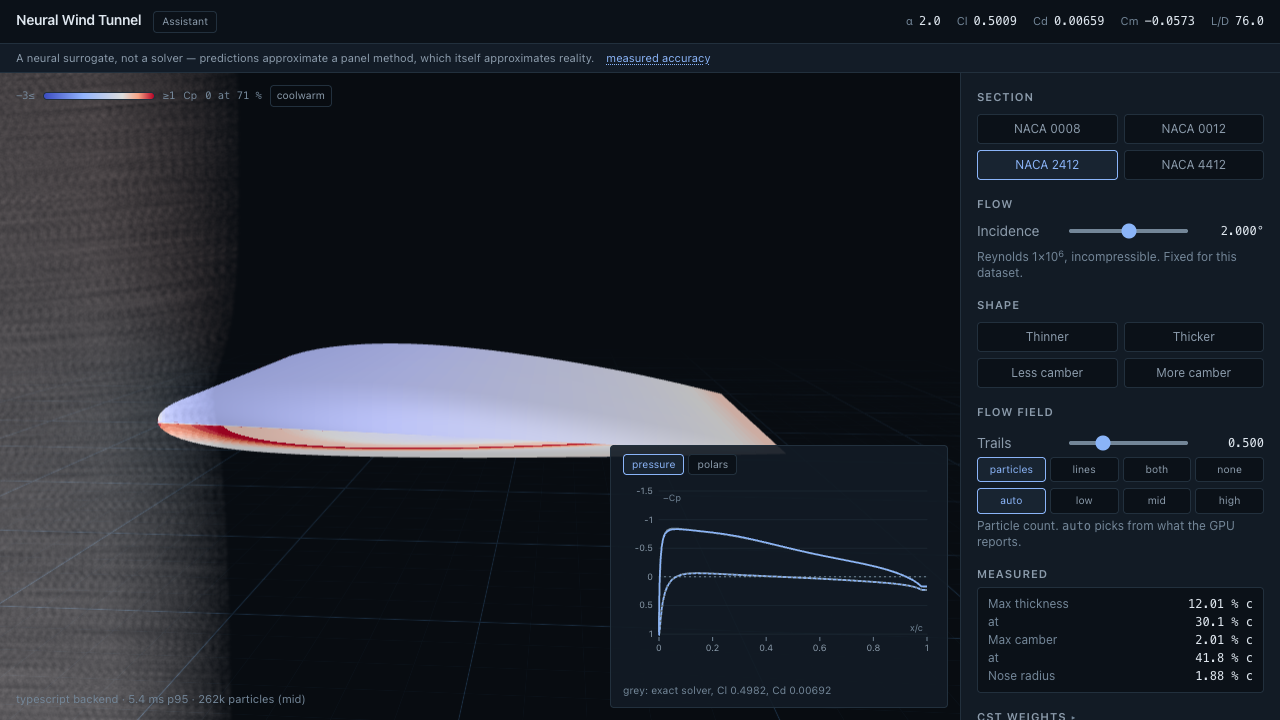
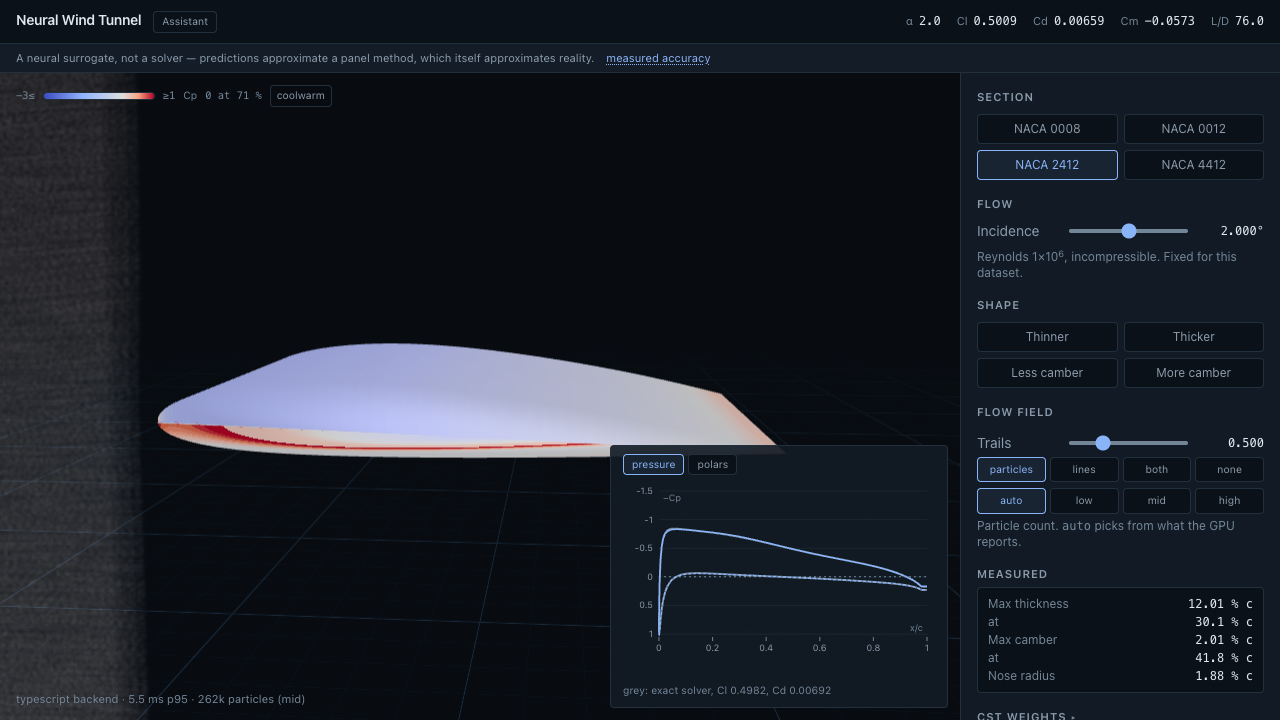
test: wait for the flow field to develop instead of for the clock

Changed region(s): [[0.0, 0.0917, 0.2188, 1.0]]

diff --git a/tests/e2e/scene.spec.ts b/tests/e2e/scene.spec.ts
@@ -150,50 +150,69 @@ test.describe('polars', () => {
  * dead field, a broken mask, particles that never advect, and an inlet that saturates.
  */
 test.describe('the flow field is visible across the domain', () => {
+  // Self-paced rather than clock-paced. A particle needs about five seconds of simulated time to
+  // cross three chords, and the step clamps each frame to 1/30 s, so a runner managing two frames
+  // a second advances the simulation at a fifteenth of real time. Polling lets a GPU finish in
+  // seconds and still gives SwiftShader the minutes it needs.
   test('downstream of the section, not only at the inlet', async ({ page }) => {
+    test.setTimeout(240_000)
     await installCanvasProbe(page)
-    await page.goto('/#v=1&p=naca2412&a=2&view=particles&tier=mid')
+    await page.goto('/#v=1&p=naca2412&a=2&view=particles&tier=low')
     await waitForRenderedSection(page)
 
-    // Long enough for a particle to cross the domain: three chords at 0.6 chords per second.
-    await page.waitForFunction(() => (window.__frames ?? 0) > 120, undefined, { timeout: 60_000 })
-    await page.waitForTimeout(6000)
+    const bands = async () =>
+      page.evaluate(() => {
+        const canvas = document.querySelector('canvas')
+        if (!canvas) return null
+        const gl = canvas.getContext('webgl2')
+        if (!gl) return null
+        const { width, height } = canvas
+        const pixels = new Uint8Array(width * height * 4)
+        gl.readPixels(0, 0, width, height, gl.RGBA, gl.UNSIGNED_BYTE, pixels)
 
-    const bands = await page.evaluate(() => {
-      const canvas = document.querySelector('canvas')
-      if (!canvas) return null
-      const gl = canvas.getContext('webgl2')
-      if (!gl) return null
-      const { width, height } = canvas
-      const pixels = new Uint8Array(width * height * 4)
-      gl.readPixels(0, 0, width, height, gl.RGBA, gl.UNSIGNED_BYTE, pixels)
-
-      // The upper third only: above the section, where nothing but flow is drawn.
-      const mean = (from: number, to: number) => {
-        let sum = 0
-        let count = 0
-        for (let y = Math.floor(height * 0.72); y < height; y += 2) {
-          for (let x = Math.floor(width * from); x < Math.floor(width * to); x += 2) {
-            const i = (y * width + x) * 4
-            sum += ((pixels[i] ?? 0) + (pixels[i + 1] ?? 0) + (pixels[i + 2] ?? 0)) / 3
-            count += 1
+        // The upper quarter only: above the section, where nothing but flow is drawn.
+        const mean = (from: number, to: number) => {
+          let sum = 0
+          let count = 0
+          for (let y = Math.floor(height * 0.72); y < height; y += 3) {
+            for (let x = Math.floor(width * from); x < Math.floor(width * to); x += 3) {
+              const i = (y * width + x) * 4
+              sum += ((pixels[i] ?? 0) + (pixels[i + 1] ?? 0) + (pixels[i + 2] ?? 0)) / 3
+              count += 1
+            }
           }
+          return count === 0 ? 0 : sum / count
         }
-        return count === 0 ? 0 : sum / count
-      }
 
-      return { inlet: mean(0, 0.12), middle: mean(0.4, 0.7), outlet: mean(0.78, 0.98) }
-    })
+        return { inlet: mean(0, 0.12), middle: mean(0.4, 0.7), outlet: mean(0.78, 0.98) }
+      })
 
-    expect(bands, 'the canvas could not be sampled').not.toBeNull()
-    if (!bands) return
-    const { inlet, middle, outlet } = bands
+    // Wait for the field to develop, then assert. The poll's threshold is the "is there flow
+    // downstream" question; the assertion afterwards is the "does the inlet drown it" question.
+    await expect
+      .poll(
+        async () => {
+          const sample = await bands()
+          return Math.min(sample?.middle ?? 0, sample?.outlet ?? 0)
+        },
+        {
+          timeout: 180_000,
+          message: 'the flow never reached the middle or the outlet of the domain',
+        },
+      )
+      .toBeGreaterThan(8)
 
-    // Each band carries flow. The floor is low because this runs on a software renderer.
-    expect(middle, `mid-domain brightness ${middle.toFixed(1)}`).toBeGreaterThan(6)
-    expect(outlet, `downstream brightness ${outlet.toFixed(1)}`).toBeGreaterThan(6)
+    const settled = await bands()
+    expect(settled).not.toBeNull()
+    if (!settled) return
 
-    // And the inlet does not drown the rest. In the broken build this ratio was unbounded.
-    expect(inlet / Math.max(middle, 1), 'inlet is far brighter than mid-domain').toBeLessThan(3)
+    // The inlet is legitimately the brightest band -- every respawn happens there, so it is the
+    // densest part of the field. What must not happen is it being the *only* visible band, which
+    // is what an exposure that saturates looks like: in the broken build the middle sampled at
+    // essentially zero and this ratio had no upper bound at all.
+    expect(
+      settled.inlet / Math.max(settled.middle, 1),
+      `inlet ${settled.inlet.toFixed(1)} against mid-domain ${settled.middle.toFixed(1)}`,
+    ).toBeLessThan(4)
   })
 })
